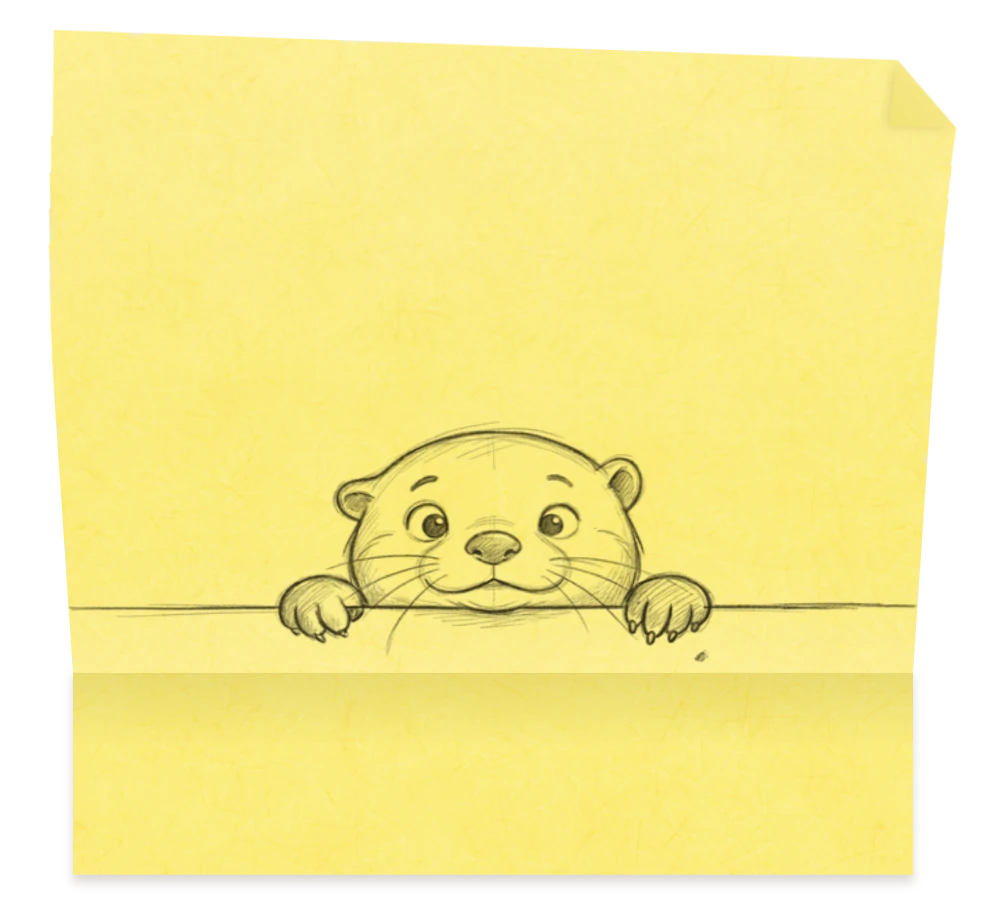
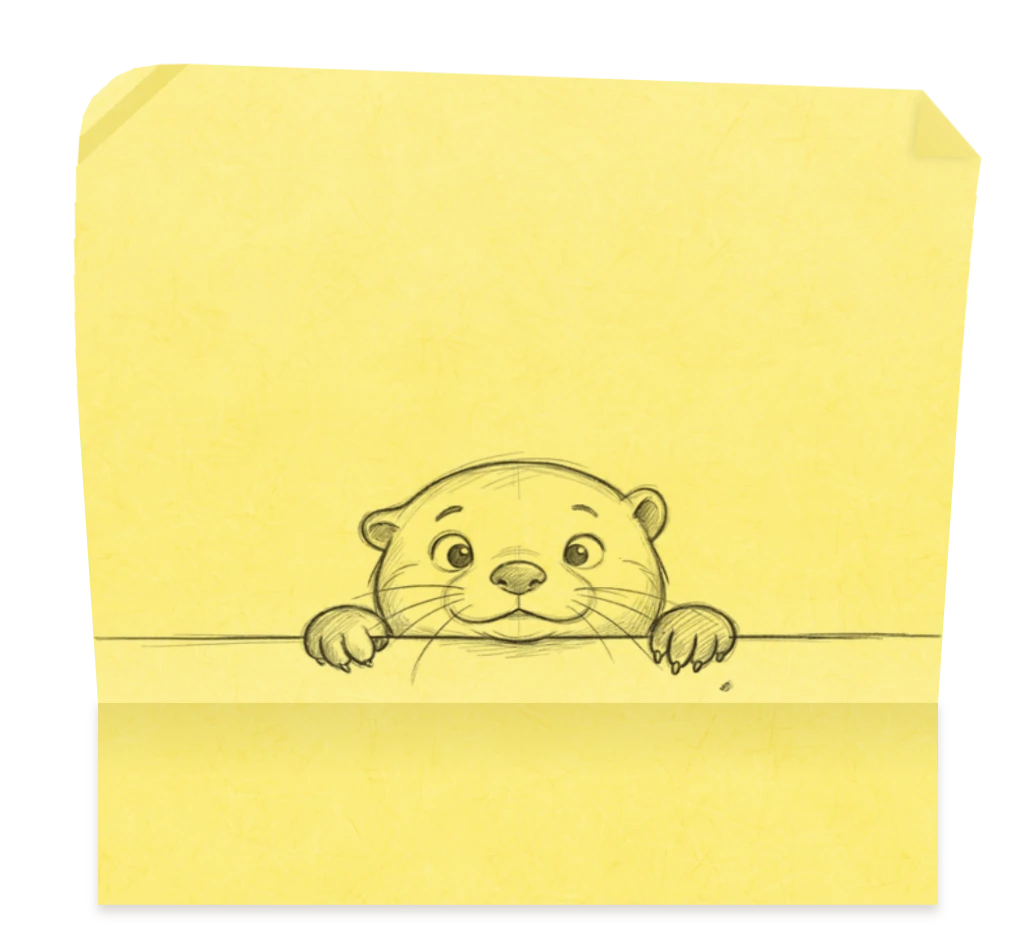
Post-it: the top left corner curls toward the viewer
The corner is 0.12 of the note, cut along four diagonal hinges, each
piece turned on from the last up to 80 degrees at the tip. It is shaded
in the bend and lighter toward the tip. The top band's paper moved onto
its own layer, because the clip-path that cuts its corners flattens
anything 3D inside it. The zoomed-in pictures are re-baked.

Changed region(s): [[0.0312, 0.0309, 0.9678, 0.9901]]

diff --git a/src/app/landing/PostIt.tsx b/src/app/landing/PostIt.tsx
@@ -202,22 +202,62 @@ export function PostIt() {
 
 /** The bands of the curl above the otter, each hinged on the last
  *  (.postitBand), as shares of the note - thin, so the twist bends the sides
- *  smoothly; the top one taller, holding the turned-over corner. Their
- *  paper's fibre runs on from the band below, the light ramping across. */
+ *  smoothly; the top one taller, holding the turned-over corner and the
+ *  curled one. Their paper's fibre runs on from the band below, the light
+ *  ramping across. */
 const BANDS = [0.04, 0.04, 0.04, 0.04, 0.04, 0.04, 0.04, 0.12];
+
+/**
+ * The top left corner curling toward us (2026-10-07: "make only the top
+ * left corner of the postit curl a bit towards the camera"): a square
+ * `size` of the note on a side at the top band's corner, cut along diagonal
+ * hinges at `hinges` of it - each piece turned about every hinge from the
+ * outermost in to its own, by `turn` degrees at each, so it rolls rather
+ * than folds (80 degrees at the tip). Shaded in the bend - the paper there
+ * turned from the light - and lighter toward the tip, which faces it.
+ */
+const CURL = { size: 0.12, hinges: [1, 0.72, 0.46, 0.22], turn: [14, 18, 22, 26] };
+
+function Curl({ backgroundPosition, light }: { backgroundPosition: string; light: number }) {
+  const s = CURL.size;
+  const about = (h: number, deg: number) => {
+    const m = `calc(var(--note) * ${((s * h) / 2).toFixed(4)})`;
+    const back = `calc(var(--note) * ${((-s * h) / 2).toFixed(4)})`;
+    return `translate(${m}, ${m}) rotate3d(1, -1, 0, ${deg}deg) translate(${back}, ${back})`;
+  };
+  return CURL.hinges.map((h, i) => {
+    const inner = CURL.hinges[i + 1] ?? 0;
+    // Out to its hinge and 2px past it, under the piece outside it: at the
+    // hinge itself the film showed through the two anti-aliased edges.
+    const out = `calc(${(h * 100).toFixed(1)}% + 2px)`;
+    const clipPath = `polygon(${(inner * 100).toFixed(1)}% 0, ${out} 0, 0 ${out}, 0 ${(inner * 100).toFixed(1)}%)`;
+    const transform = CURL.hinges.slice(0, i + 1).map((hj, j) => about(hj, -CURL.turn[j])).join(" ");
+    const tint = i === 0 ? "rgba(120, 88, 10, 0.07)" : `rgba(255, 255, 255, ${(light + 0.05 * i).toFixed(3)})`;
+    return <span key={i} className={styles.postitCurl} style={{ backgroundPosition, clipPath, transform, boxShadow: `inset 0 0 0 999px ${tint}` }} />;
+  });
+}
+
 function Band({ k }: { k: number }) {
   // Its top, from the top of the lifted part.
   const top = BANDS.slice(k + 1).reduce((a, b) => a + b, 0);
   const done = (i: number) => BANDS.slice(0, i).reduce((a, b) => a + b, 0) / (1 - STUCK - FLAT / 100);
   const light = (i: number) => (0.02 + 0.13 * done(i)).toFixed(3);
-  const last = k === BANDS.length - 1;
+  const backgroundPosition = `0 calc(var(--note) * ${-top})`;
+  const lit = <span className={styles.postitLight} style={{ background: `linear-gradient(to top, rgba(255,255,255,${light(k)}), rgba(255,255,255,${light(k + 1)}))` }} />;
+  if (k === BANDS.length - 1) {
+    return (
+      <span className={`${styles.postitSeg} ${styles.postitBand} ${styles.postitTop}`} style={{ ["--band" as string]: BANDS[k], ["--curl" as string]: CURL.size }}>
+        <span className={styles.postitFace} style={{ backgroundPosition }}>
+          {lit}
+        </span>
+        <Curl backgroundPosition={backgroundPosition} light={Number(light(k + 1))} />
+      </span>
+    );
+  }
   return (
-    <span
-      className={`${styles.postitSeg} ${styles.postitBand} ${last ? styles.postitCorner : ""}`}
-      style={{ backgroundPosition: `0 calc(var(--note) * ${-top})`, ["--band" as string]: BANDS[k] }}
-    >
-      <span className={styles.postitLight} style={{ background: `linear-gradient(to top, rgba(255,255,255,${light(k)}), rgba(255,255,255,${light(k + 1)}))` }} />
-      {!last && <Band k={k + 1} />}
+    <span className={`${styles.postitSeg} ${styles.postitBand}`} style={{ backgroundPosition, ["--band" as string]: BANDS[k] }}>
+      {lit}
+      <Band k={k + 1} />
     </span>
   );
 }

diff --git a/src/app/landing/landing.module.css b/src/app/landing/landing.module.css
@@ -1218,7 +1218,9 @@
 
 /* Canary yellow paper, its fibre from the journal's own paper tile. */
 .postitStuck,
-.postitSeg {
+.postitSeg,
+.postitFace,
+.postitCurl {
   position: absolute;
   left: 0;
   right: 0;
@@ -1309,13 +1311,43 @@
   background: linear-gradient(to top, rgba(255, 255, 255, 0.16), rgba(255, 255, 255, 0) 45%, rgba(255, 255, 255, 0) 70%, rgba(255, 255, 255, 0.02));
 }
 
-/* The top right corner turned over: the note's back, barely duller, and the
-   faintest shadow on the front ("the turned corner gradients less obvious"). */
-.postitCorner {
-  clip-path: polygon(0 0, calc(100% - var(--note) * 0.075) 0, 100% calc(var(--note) * 0.075), 100% 100%, 0 100%);
+/* The top band: its paper on .postitFace, cut at both top corners - the
+   right one turned over (::after), the left one curling toward us
+   (.postitCurl, 2026-10-07: "make only the top left corner of the postit
+   curl a bit towards the camera"). Not on the band itself: a clip-path
+   flattens what is in it, and the curl turns in 3D. */
+.postitTop {
+  background: none;
 }
 
-.postitCorner::after {
+.postitFace {
+  position: absolute;
+  inset: 0;
+  clip-path: polygon(
+    calc(var(--note) * var(--curl)) 0,
+    calc(100% - var(--note) * 0.075) 0,
+    100% calc(var(--note) * 0.075),
+    100% 100%,
+    0 100%,
+    0 calc(var(--note) * var(--curl))
+  );
+}
+
+/* A piece of the curl: the band's corner, a square --curl of the note on a
+   side, cut to its strip between two diagonal hinges and turned about each
+   hinge out to it (PostIt.tsx, CURL). */
+.postitCurl {
+  position: absolute;
+  left: 0;
+  top: 0;
+  width: calc(var(--note) * var(--curl));
+  height: calc(var(--note) * var(--curl));
+  transform-origin: 0 0;
+}
+
+/* The top right corner turned over: the note's back, barely duller, and the
+   faintest shadow on the front ("the turned corner gradients less obvious"). */
+.postitFace::after {
   content: "";
   position: absolute;
   top: 0;
